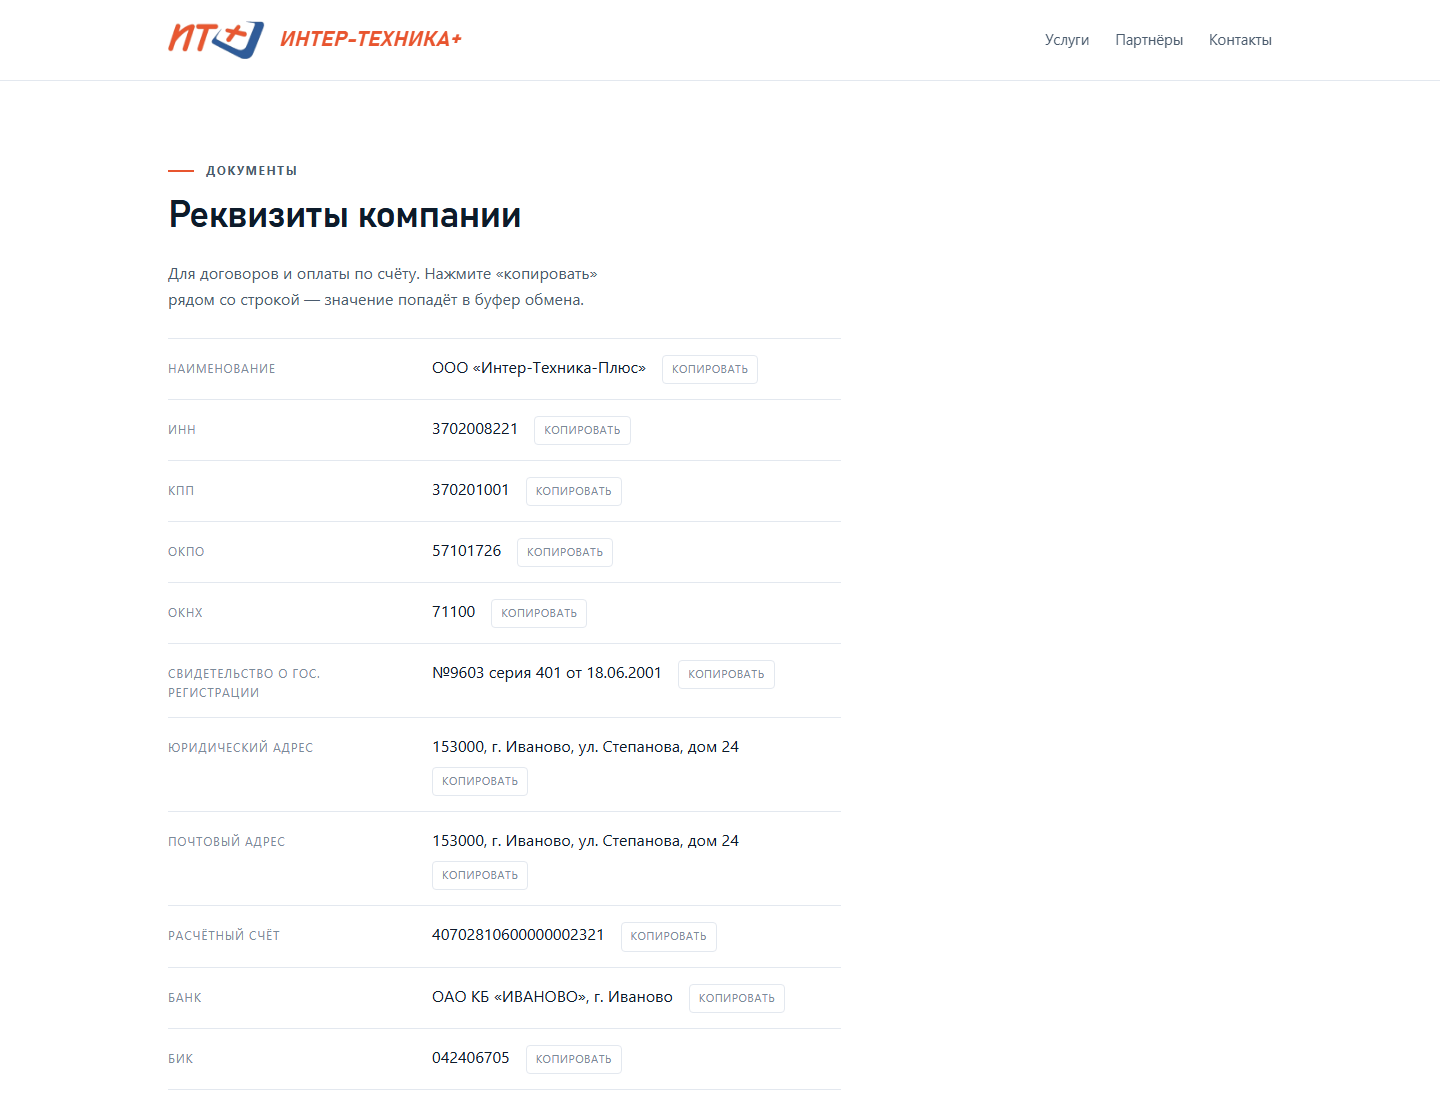
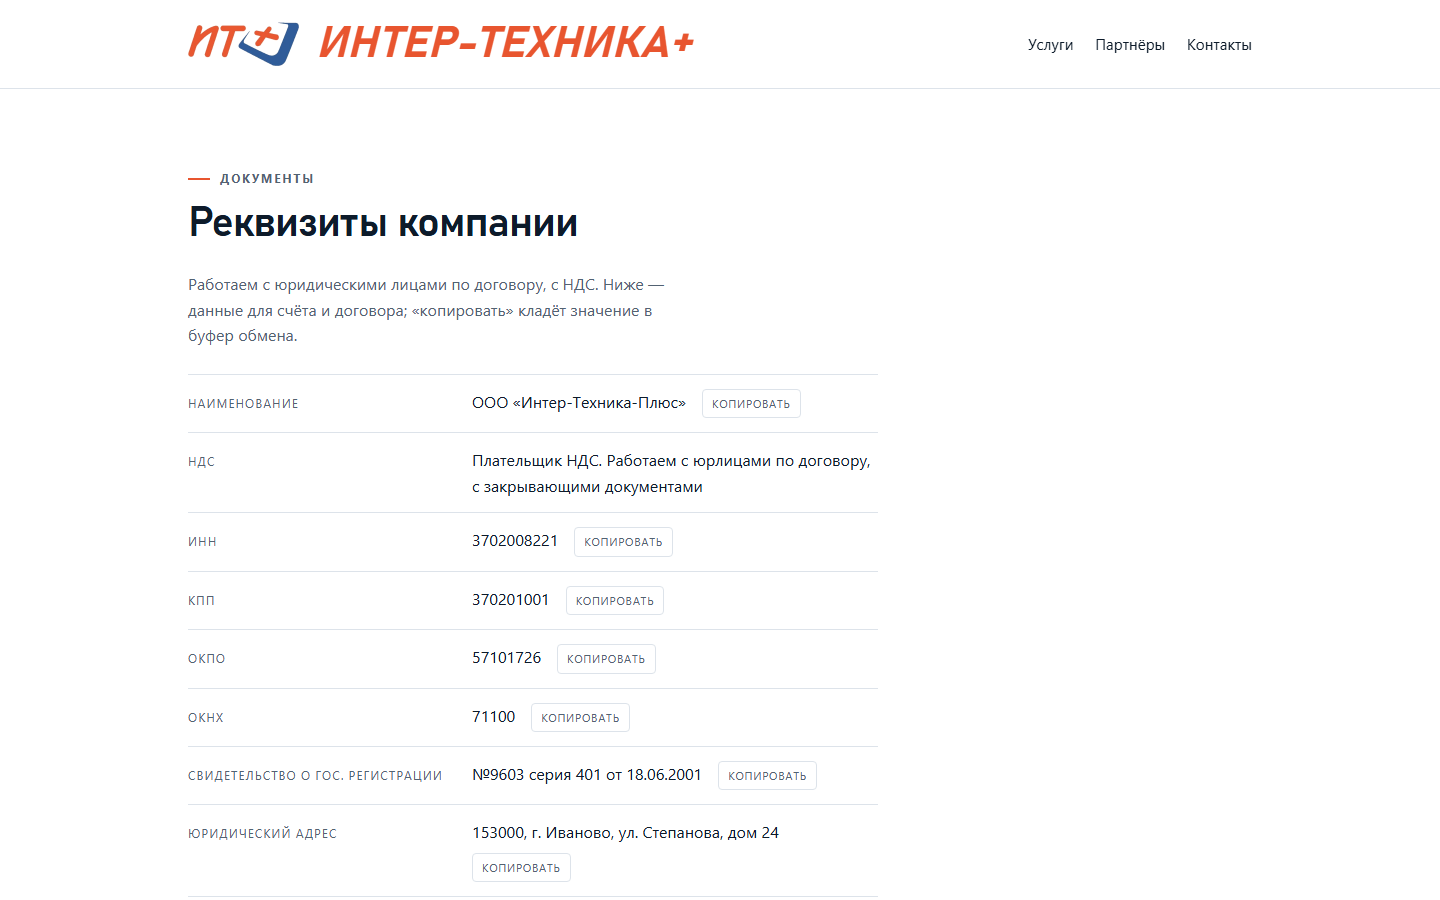
Явно указать работу с юрлицами и НДС: первый экран, контакты, реквизиты

diff --git a/index.html b/index.html
@@ -111,6 +111,7 @@
               <a class="btn" href="#services">Наши услуги</a>
               <a class="btn btn--ghost" href="#contacts">Как нас найти</a>
             </div>
+            <p class="hero-note">Работаем с юридическими лицами: договор, счёт и закрывающие документы с НДС</p>
           </div>
 
           <aside class="hero-card" aria-label="Контакты">
@@ -275,8 +276,8 @@
           <p class="eyebrow">Контакты</p>
           <h2 class="section-title">Как нас найти</h2>
           <p class="section-lead">
-            Приходите в офис или звоните. Для юридических лиц — счёт,
-            договор и закрывающие документы.
+            Приходите в офис или звоните. С юридическими лицами работаем
+            по договору: счёт, закрывающие документы, НДС.
           </p>
 
           <dl class="contact-list">
@@ -303,7 +304,9 @@
             </div>
             <div>
               <dt>Документы</dt>
-              <dd><a href="requisites.html">Реквизиты компании</a></dd>
+              <dd><a href="requisites.html">Реквизиты компании</a><br>
+                <span class="muted">для юрлиц: договор, счёт, акты, НДС</span>
+              </dd>
             </div>
           </dl>
         </div>

diff --git a/requisites.html b/requisites.html
@@ -34,8 +34,8 @@
       <p class="eyebrow">Документы</p>
       <h1>Реквизиты компании</h1>
       <p class="section-lead">
-        Для договоров и оплаты по счёту. Нажмите «копировать» рядом со строкой —
-        значение попадёт в буфер обмена.
+        Работаем с юридическими лицами по договору, с НДС. Ниже — данные для
+        счёта и договора; «копировать» кладёт значение в буфер обмена.
       </p>
 
       <dl class="requisites">
@@ -43,6 +43,10 @@
           <dt>Наименование</dt>
           <dd><span class="req-value">ООО «Интер-Техника-Плюс»</span>
             <button class="copy" type="button" data-copy="ООО «Интер-Техника-Плюс»">копировать</button></dd>
+        </div>
+        <div class="req-row">
+          <dt>НДС</dt>
+          <dd><span class="req-value">Плательщик НДС</span></dd>
         </div>
         <div class="req-row">
           <dt>ИНН</dt>

diff --git a/assets/style.css b/assets/style.css
@@ -1033,3 +1033,10 @@ p:last-child { margin-bottom: 0; }
   font-size: .9rem;
   color: var(--ink-soft);
 }
+/* Пояснение под кнопками первого экрана */
+.hero-note {
+  margin: 18px 0 0;
+  font-size: .85rem;
+  color: var(--ink-soft);
+  max-width: 44ch;
+}
